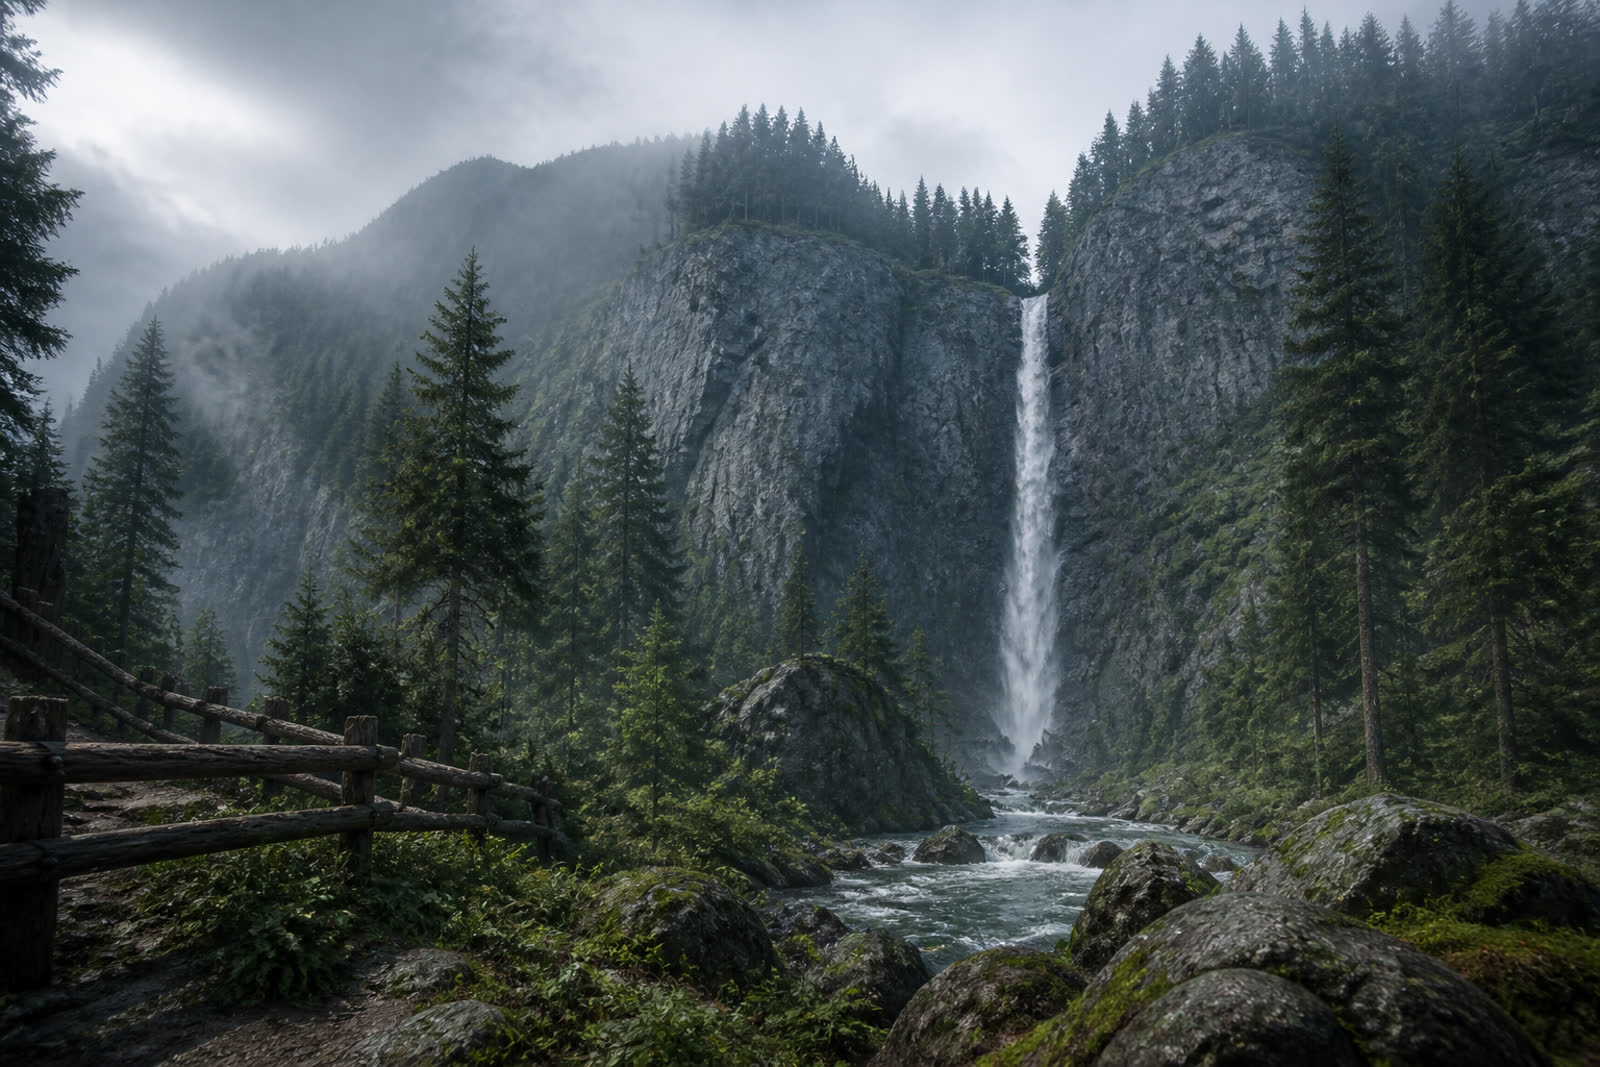
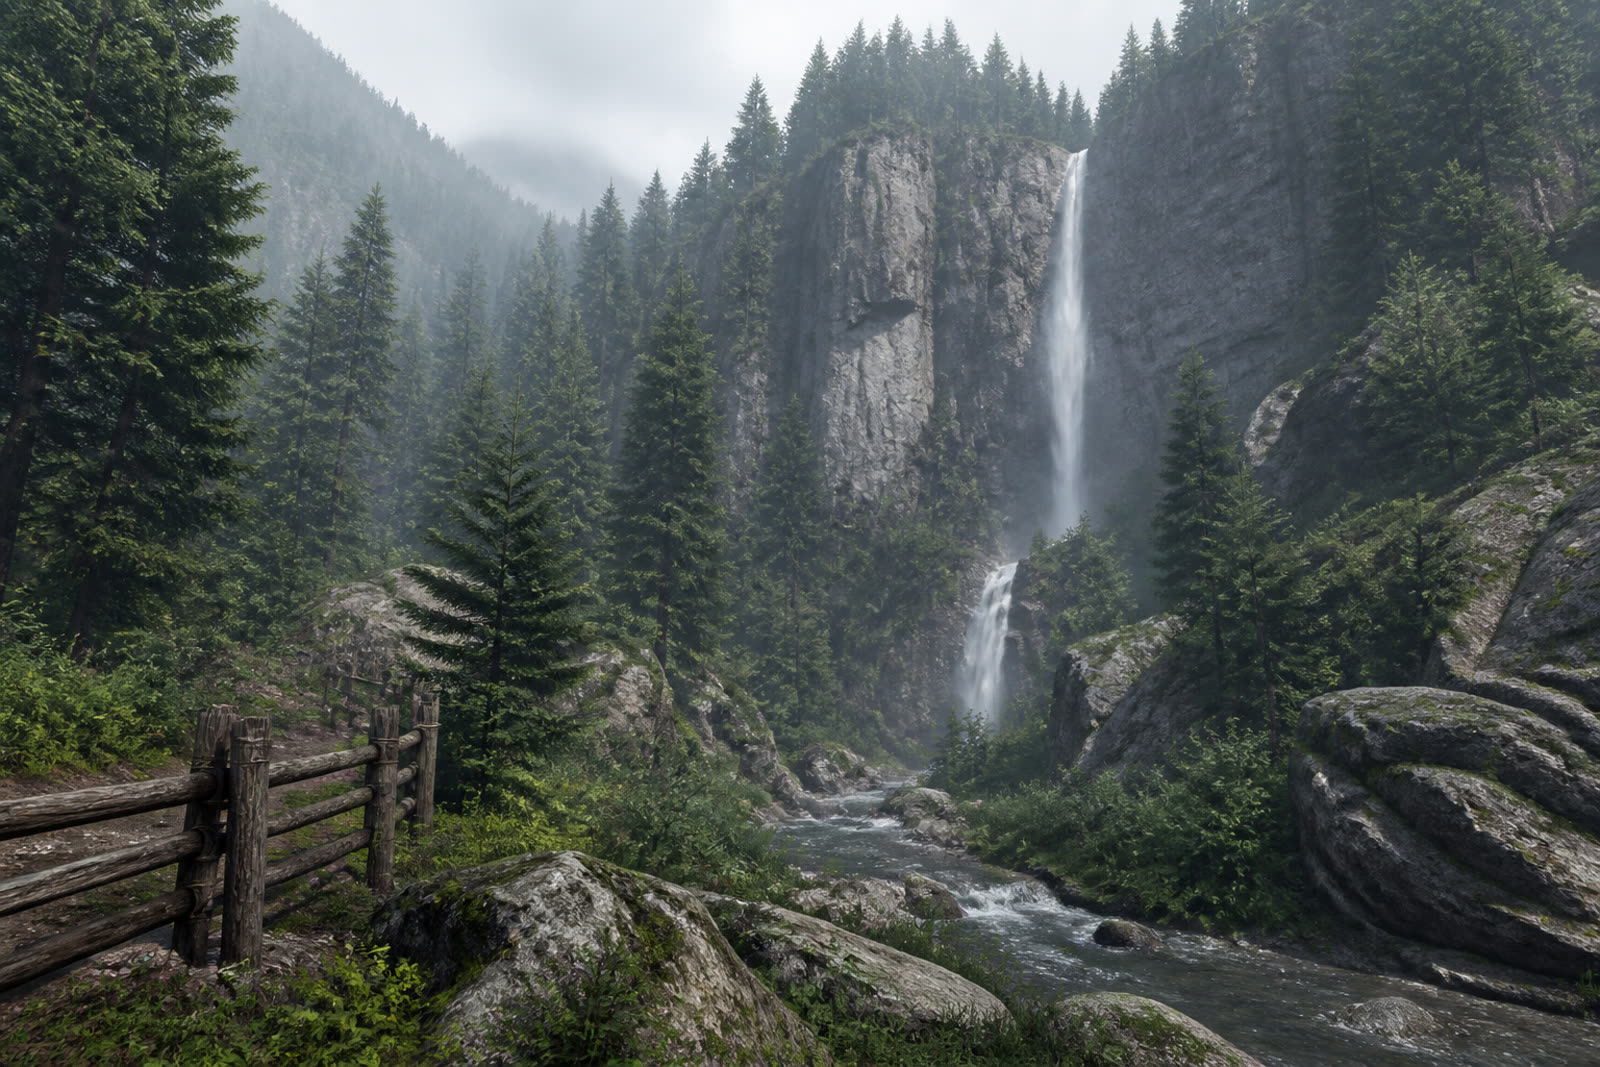
Set forest background and add flying birds
Refresh the forest backdrop and add animated birds across the page
and inside Horizon Dash for a living sky layer.

diff --git a/birds.js b/birds.js
@@ -1,0 +1,114 @@
+(() => {
+  const canvas = document.getElementById("bg-birds");
+  if (!canvas) return;
+  const ctx = canvas.getContext("2d");
+  if (!ctx) return;
+
+  let width = 0;
+  let height = 0;
+  let birds = [];
+
+  function resize() {
+    width = window.innerWidth;
+    height = window.innerHeight;
+    canvas.width = width;
+    canvas.height = height;
+  }
+
+  function makeBird(fromLeft) {
+    const y = 40 + Math.random() * Math.min(280, height * 0.35);
+    const speed = 0.7 + Math.random() * 1.4;
+    return {
+      x: fromLeft ? -40 : width + 40,
+      y,
+      baseY: y,
+      dir: fromLeft ? 1 : -1,
+      speed,
+      size: 10 + Math.random() * 10,
+      wing: Math.random() * Math.PI * 2,
+      wingSpeed: 0.18 + Math.random() * 0.22,
+      bob: Math.random() * Math.PI * 2,
+    };
+  }
+
+  function seedBirds() {
+    birds = [];
+    const count = Math.max(5, Math.min(10, Math.floor(width / 180)));
+    for (let i = 0; i < count; i += 1) {
+      const bird = makeBird(Math.random() > 0.5);
+      bird.x = Math.random() * width;
+      birds.push(bird);
+    }
+  }
+
+  function drawBird(b) {
+    const flap = Math.sin(b.wing);
+    const x = b.x;
+    const y = b.y + Math.sin(b.bob) * 6;
+
+    ctx.save();
+    ctx.translate(x, y);
+    if (b.dir < 0) ctx.scale(-1, 1);
+
+    // body
+    ctx.fillStyle = "rgba(20, 18, 16, 0.85)";
+    ctx.beginPath();
+    ctx.ellipse(0, 0, b.size * 0.9, b.size * 0.45, 0, 0, Math.PI * 2);
+    ctx.fill();
+
+    // head
+    ctx.beginPath();
+    ctx.arc(b.size * 0.75, -b.size * 0.1, b.size * 0.28, 0, Math.PI * 2);
+    ctx.fill();
+
+    // beak
+    ctx.fillStyle = "rgba(220, 140, 40, 0.95)";
+    ctx.beginPath();
+    ctx.moveTo(b.size * 1.0, -b.size * 0.08);
+    ctx.lineTo(b.size * 1.35, 0);
+    ctx.lineTo(b.size * 1.0, b.size * 0.1);
+    ctx.closePath();
+    ctx.fill();
+
+    // wing
+    ctx.fillStyle = "rgba(35, 32, 28, 0.9)";
+    ctx.beginPath();
+    ctx.moveTo(-b.size * 0.1, 0);
+    ctx.quadraticCurveTo(
+      b.size * 0.1,
+      -b.size * (0.9 + flap * 0.55),
+      b.size * 0.7,
+      -b.size * 0.15
+    );
+    ctx.quadraticCurveTo(b.size * 0.2, -b.size * 0.05, -b.size * 0.1, 0);
+    ctx.fill();
+
+    ctx.restore();
+  }
+
+  function frame() {
+    ctx.clearRect(0, 0, width, height);
+
+    birds.forEach((b) => {
+      b.x += b.speed * b.dir;
+      b.wing += b.wingSpeed;
+      b.bob += 0.03;
+
+      if ((b.dir > 0 && b.x > width + 50) || (b.dir < 0 && b.x < -50)) {
+        Object.assign(b, makeBird(b.dir < 0));
+      }
+
+      drawBird(b);
+    });
+
+    requestAnimationFrame(frame);
+  }
+
+  resize();
+  seedBirds();
+  window.addEventListener("resize", () => {
+    resize();
+    seedBirds();
+  });
+  requestAnimationFrame(frame);
+})();

diff --git a/game.js b/game.js
@@ -37,11 +37,23 @@
       bird: { x: 130, y: H * 0.42, vy: 0, r: 16, rot: 0 },
       obstacles: [],
       particles: [],
+      skyBirds: [],
     };
 
     metaEl.textContent = `Best: ${state.best}`;
     startBtn.textContent = "Play";
     scoreEl.textContent = "Score: 0";
+
+    for (let i = 0; i < 4; i += 1) {
+      state.skyBirds.push({
+        x: Math.random() * W,
+        y: 30 + Math.random() * 90,
+        speed: 0.6 + Math.random() * 1.1,
+        dir: Math.random() > 0.5 ? 1 : -1,
+        wing: Math.random() * 10,
+        size: 8 + Math.random() * 6,
+      });
+    }
 
     function ellipse(x, y, rx, ry) {
       if (typeof ctx.ellipse === "function") {
@@ -246,6 +258,13 @@
         p.life -= 1;
       });
       state.particles = state.particles.filter((p) => p.life > 0);
+
+      state.skyBirds.forEach((b) => {
+        b.x += b.speed * b.dir;
+        b.wing += 0.25;
+        if (b.x < -40) b.x = W + 40;
+        if (b.x > W + 40) b.x = -40;
+      });
     }
 
     function drawBackground() {
@@ -260,6 +279,23 @@
         ctx.fillStyle = "#0b0716";
         ctx.fillRect(0, 0, W, H);
       }
+
+      state.skyBirds.forEach((b) => {
+        const flap = Math.sin(b.wing);
+        ctx.save();
+        ctx.translate(b.x, b.y);
+        if (b.dir < 0) ctx.scale(-1, 1);
+        ctx.fillStyle = "rgba(15, 12, 10, 0.8)";
+        ctx.beginPath();
+        ellipse(0, 0, b.size * 0.8, b.size * 0.35);
+        ctx.fill();
+        ctx.beginPath();
+        ctx.moveTo(-2, 0);
+        ctx.quadraticCurveTo(4, -b.size * (0.8 + flap * 0.4), b.size * 0.6, -2);
+        ctx.quadraticCurveTo(2, 0, -2, 0);
+        ctx.fill();
+        ctx.restore();
+      });
 
       ctx.fillStyle = "rgba(20, 28, 18, 0.92)";
       ctx.fillRect(0, GROUND, W, H - GROUND);

diff --git a/index.html b/index.html
@@ -11,6 +11,7 @@
 </head>
 <body>
   <div class="bg-city" aria-hidden="true"></div>
+  <canvas class="bg-birds" id="bg-birds" aria-hidden="true"></canvas>
   <div class="bg-overlay" aria-hidden="true"></div>
 
   <div class="app">
@@ -195,6 +196,7 @@
   </audio>
 
   <script src="script.js"></script>
+  <script src="birds.js"></script>
   <script src="game.js"></script>
 </body>
 </html>

diff --git a/style.css b/style.css
@@ -51,10 +51,19 @@ body {
   animation: city-drift 28s ease-in-out infinite alternate;
 }
 
+.bg-birds {
+  position: fixed;
+  inset: 0;
+  width: 100%;
+  height: 100%;
+  pointer-events: none;
+  z-index: 0;
+}
+
 .bg-overlay {
   position: fixed;
   inset: 0;
-  background: rgba(8, 16, 12, 0.18);
+  background: rgba(8, 16, 12, 0.14);
   pointer-events: none;
   z-index: 0;
 }

diff --git a/script.js b/script.js
@@ -1,7 +1,7 @@
 (() => {
   const STORAGE_KEY = "arcane-horizon-v1";
   const SFX_STORAGE_KEY = "arcane-horizon-v1-sfx";
-  const BG_STORAGE_KEY = "arcane-horizon-v2-bg";
+  const BG_STORAGE_KEY = "arcane-horizon-v3-bg";
   const BG_DEFAULT = "assets/forest-bg.jpg";
   const QUEST_XP = 40;
   const FOCUS_XP = 55;
